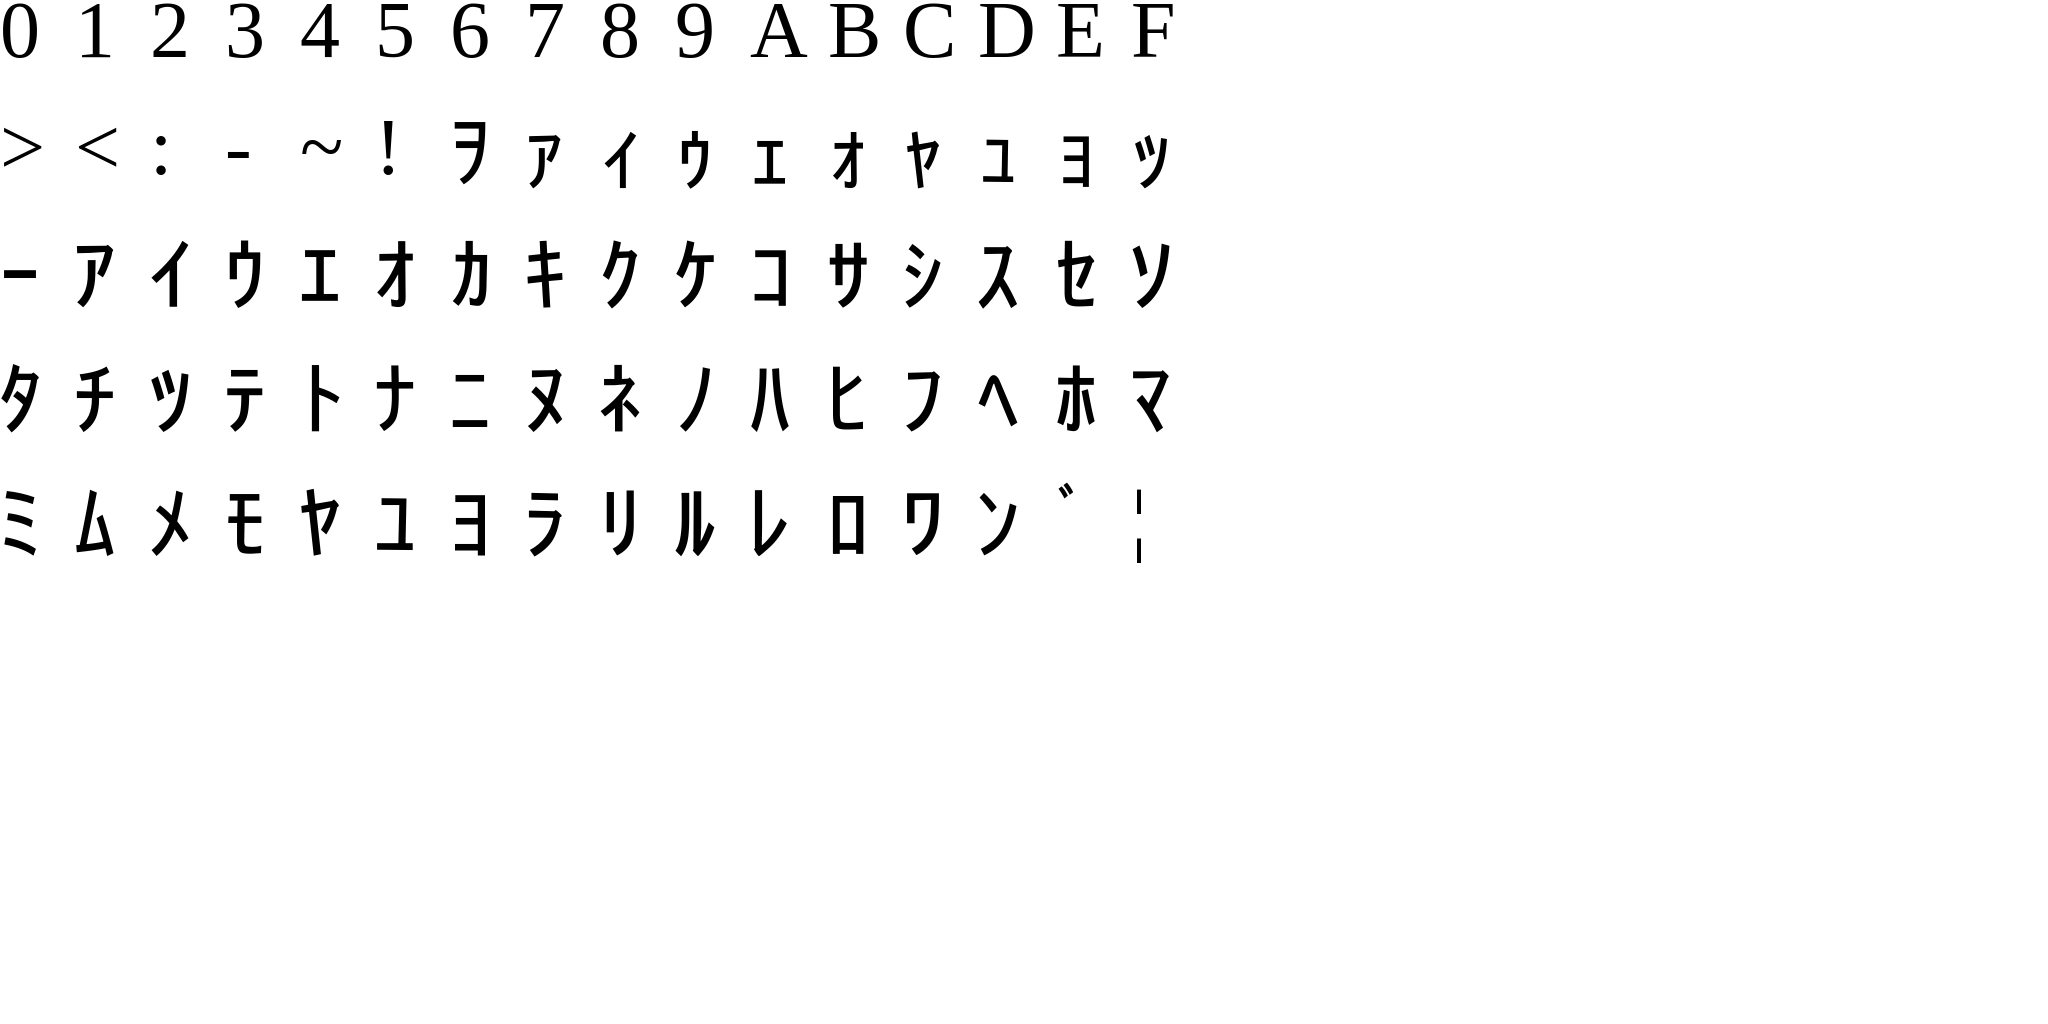
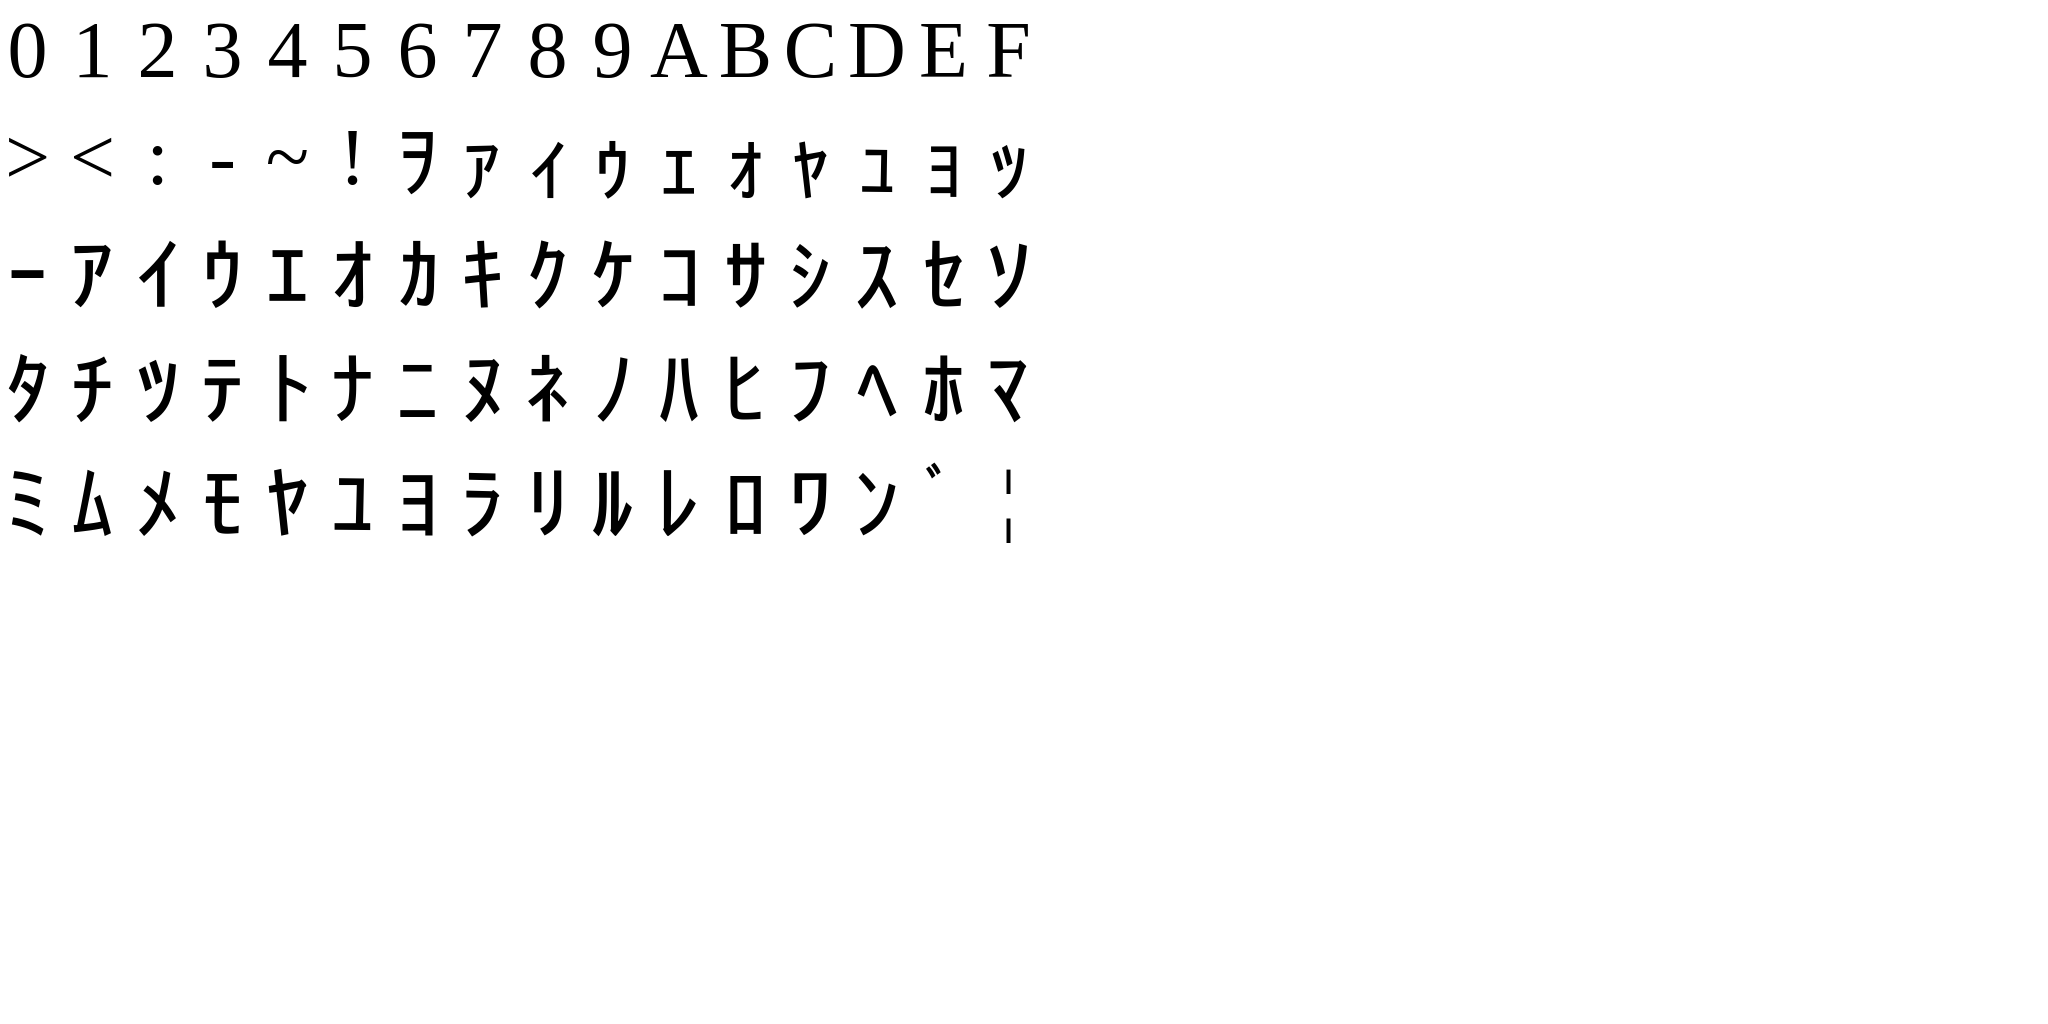
Best fonts in the world!

diff --git a/webgl/matrix/fonts.html b/webgl/matrix/fonts.html
@@ -8,7 +8,9 @@
 <html>
 <body>
 <table style="border-collapse:separate;
-border-spacing:0;" cellspacing="0">
+border-spacing:0;
+text-align:center;
+vertical-align:middle;" cellspacing="0">
     <colgroup>
         <col width="13">
         <col width="13">
